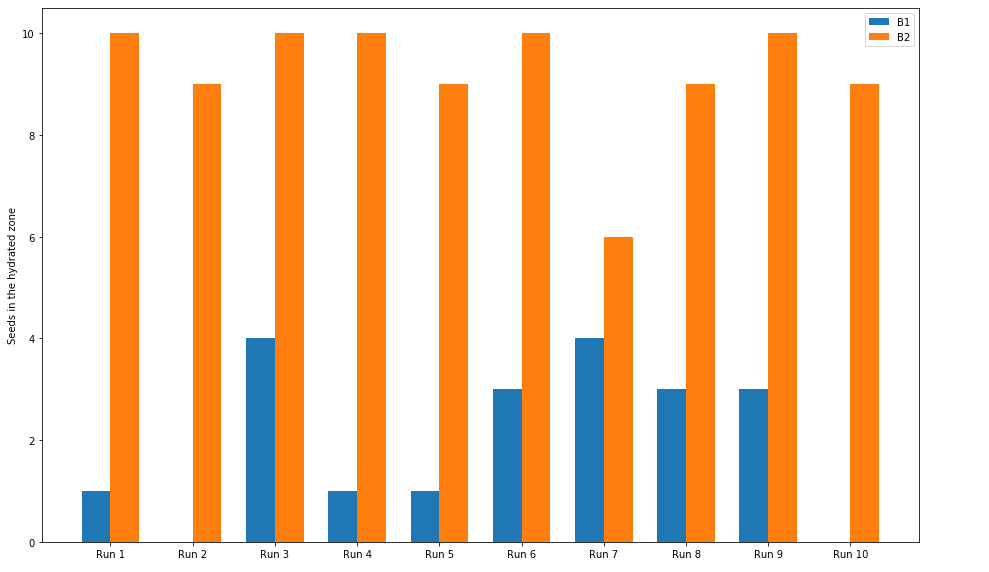
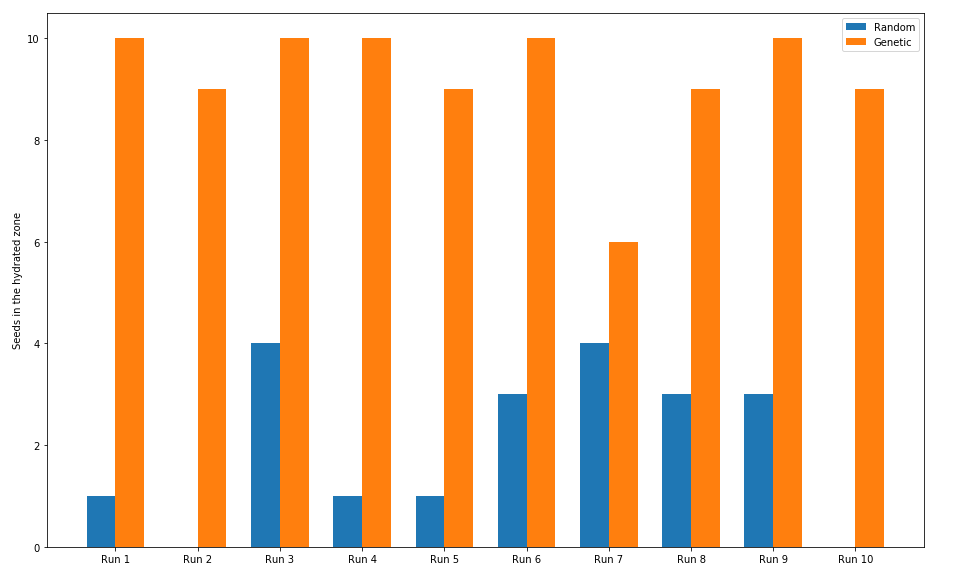
status draft one

diff --git a/docs/status.html b/docs/status.html
@@ -97,7 +97,8 @@
                 our scoring function. It will do this until convergence. The steps are as follows:
             </p>
             <ul>
-                <li>We initialise 10 random seed locations, stored as (x,z) tuples [Y is implicityly the same as we do no digging]</li>
+                <li>We initialise 10 random seed locations [this could be any integer value less than the map area], stored as
+                    (x,z) tuples [Y is implicityly the same as we do no digging]</li>
                 <li>For 10 rounds, we do:
                     <ul>
                         <li>score the current seed locations using our scoring function, which essentially measures distance
@@ -221,7 +222,13 @@
             <div class="col-12">
                 <img src="success_rate.PNG" />
             </div>
-            <p>Explanation here</p>
+            <p>The blue bars in the chart above represent the random agent. As you can see, on every trial of the algorithm,
+                it underperformed compared to our algorithm. Interestingly, if we csalculate the average of the scores of
+                the random agent, we get exactly 2 / 10, or 20%, which is very close to the estimated 18% earlier. If we
+                did more trials, we would find that eventually the success rate of the random agent would tend to 18%.
+            </p>
+            <p>Our genetic algorithm was very successful in this case, mostly planting 10 seeds in the optimal zone. The average
+                overall came to roughly 9.2/10.</p>
             <p>It is also interesting to see how to seeds converge on the water block. Below is a charting of different stages
                 of the algorithm and how it progresses</p>
             <div class="row col-12">
@@ -276,7 +283,7 @@
                 <a href="https://en.wikipedia.org/wiki/Genetic_algorithm">here</a>
             </p>
 
-            
+
         </div>
     </div>
 
